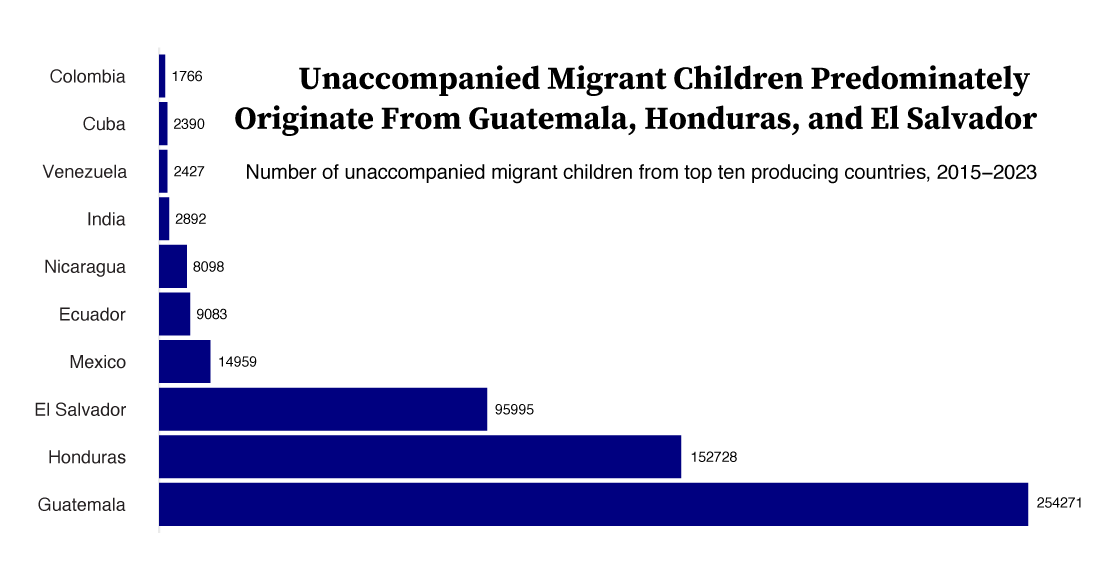
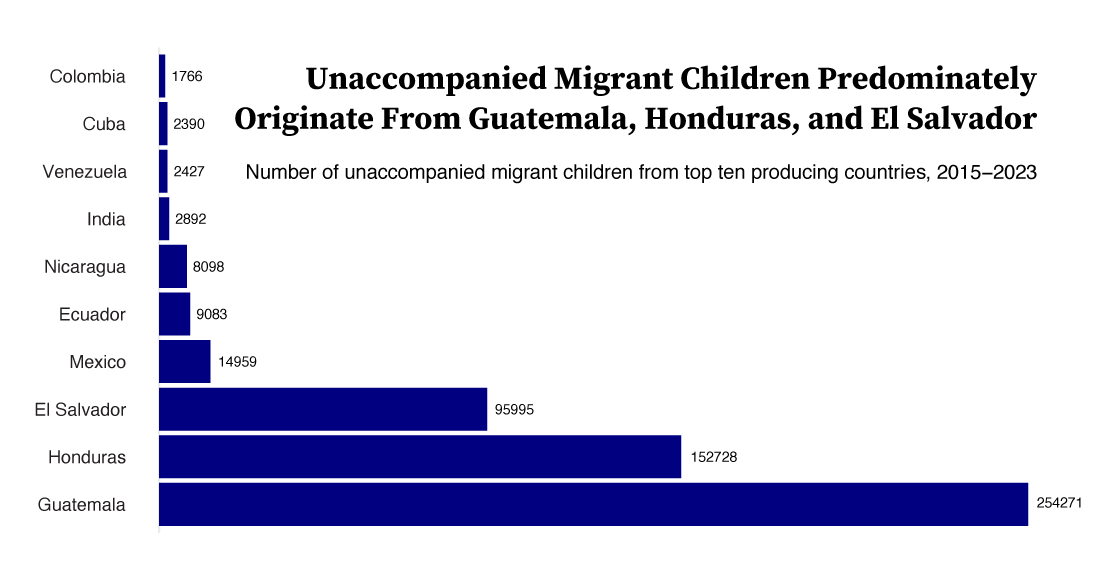
Changed subhead font size and image name

Changed region(s): [[0.25, 0.0931, 0.9375, 0.1862]]

diff --git a/unaccompanied-migrant-children/index.html b/unaccompanied-migrant-children/index.html
@@ -69,7 +69,7 @@
             </p>
             <div class ="divider"></div>
             <h3>Where are they coming from?</h3>
-            <img id="bar-chart" src="images/country-chart.png">
+            <img id="bar-chart" src="images/origin-countries.png">
             <p>
                 From 2015 to 2023, over 550,000 children arrived in the United States without an adult. 
                 Over 90% of these unaccompanied migrant children originated from the Northern Triangle of Central America

diff --git a/unaccompanied-migrant-children/styles.css b/unaccompanied-migrant-children/styles.css
@@ -19,9 +19,9 @@ h1 {
 
 #subhead {
     text-align: center;
-    font-size: 20px;
+    font-size: 24px;
     font-family: "Source Sans 3";
-    margin-top: -10px;
+    /* margin-top: -10px; */
 }
 
 .divider {
